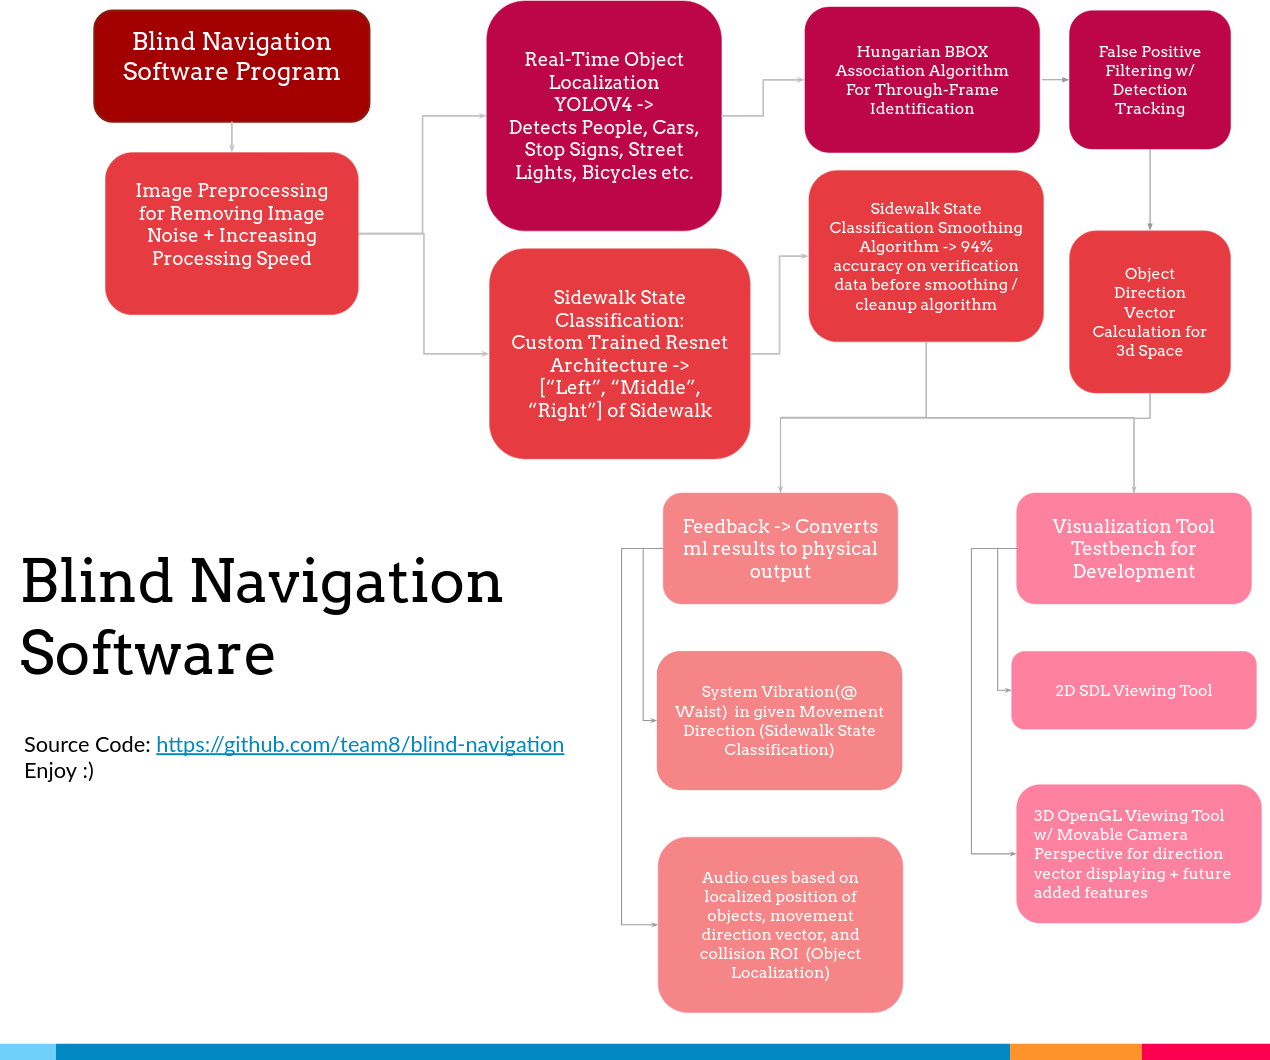
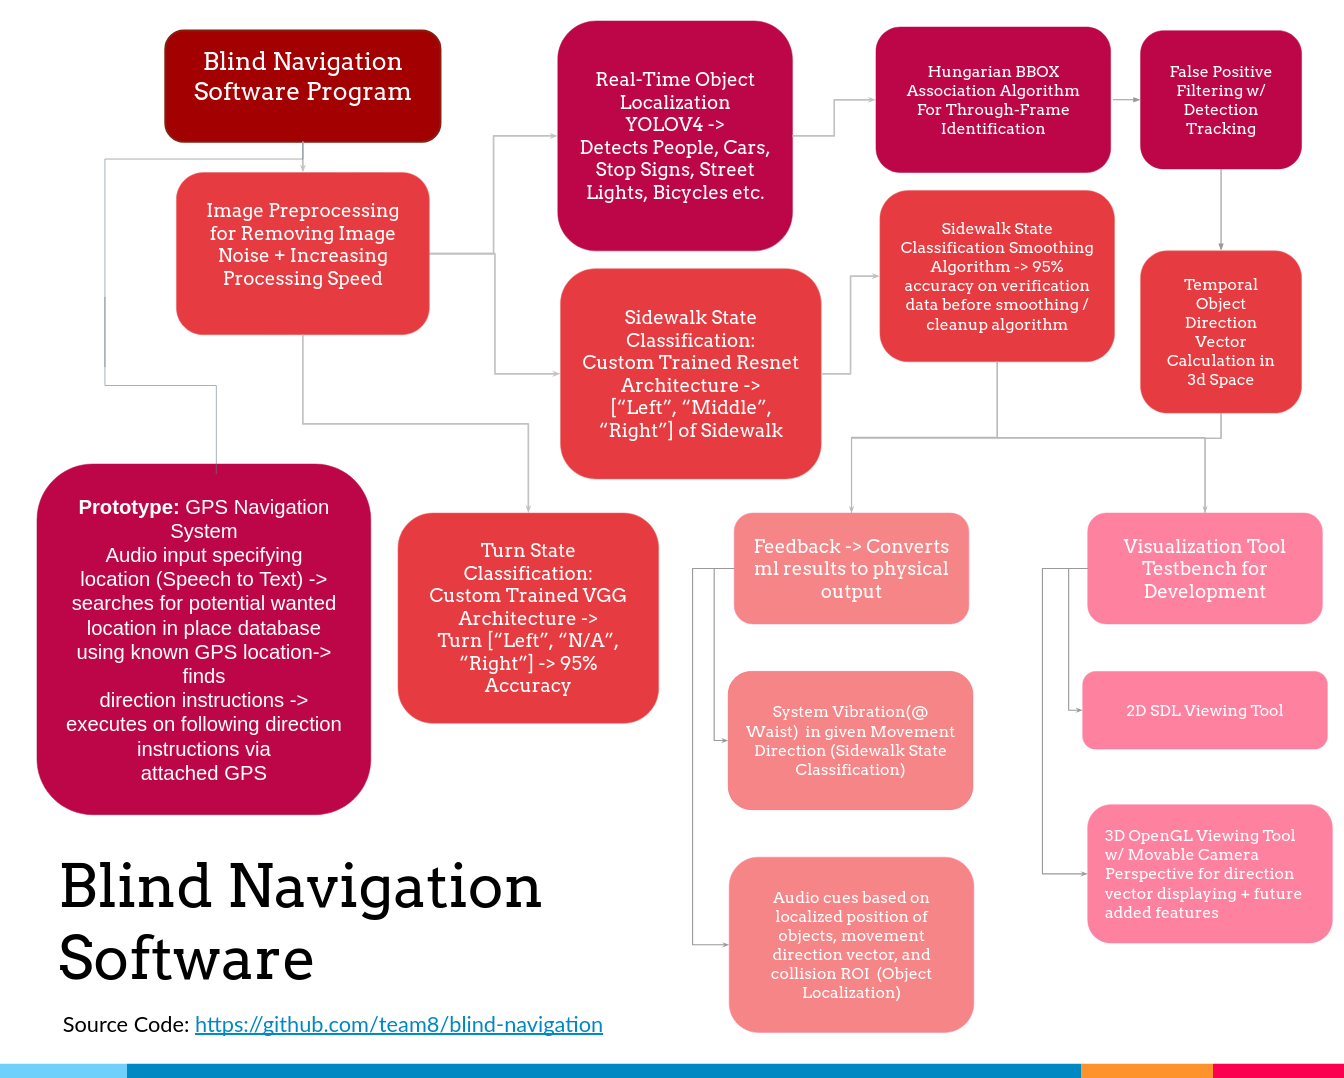
updated readme with model download links

diff --git a/README.md b/README.md
@@ -44,7 +44,9 @@ Our demo video showcases the above features on top of our visualization tools. M
 
 [process_runner.py](process_runner.py) manages all sub tasks.
 
-[sidewalk_classification.py](sidewalk_classification) manages and provides sidewalk state inference.
+[sidewalk_classification.py](sidewalk_classification) manages and provides sidewalk shift state inference.
+
+[turn_classification.py](sidewalk_classification) manages and provides sidewalk turn state inference.
 
 [detector.py](person_automobile_sign_detection/detector.py) manages and provides object localization inferences.
 
@@ -52,9 +54,11 @@ Our demo video showcases the above features on top of our visualization tools. M
 
 [capturer.py](capturer.py) handles getting images from the camera
 
-[display.py](display.py) handles displaying those images onto the visualization tool
+[display.py](display.py) handles displaying those images onto the 2d and 3d visualization tool
 
 [feedback](feedback/) handles feedback to Jetson Xavier NX (waist vibration and audio cues)
+
+
 
 ## Future Plans
 
@@ -71,10 +75,11 @@ SightWalk is entirely open source, meaning all software, CAD designs, and image 
 
 1. Create a fork of this repository on github
 2. Clone the fork you made ``git clone https://github.com/GITHUB-ACCOUNT-NAME/blind-navigation.git``
-3. Make a new branch with a descriptive name
-4. Implement the new feature
-5. Write test cases showing the robustness of the feature against multiple test cases and edge cases.
-6. Submit a pull request detailing all changes made.
+3. Download models and place them in the appropriate folders <br> [Model Download Link](https://drive.google.com/file/d/1AinPk80U0Euq6phM6UEneZsE8TIypnoy/view?usp=sharing)
+4. Make a new branch with a descriptive name
+5. Implement the new feature
+6. Write test cases showing the robustness of the feature against multiple test cases and edge cases.
+7. Submit a pull request detailing all changes made.
 
 ## Image Dataset Link
 
